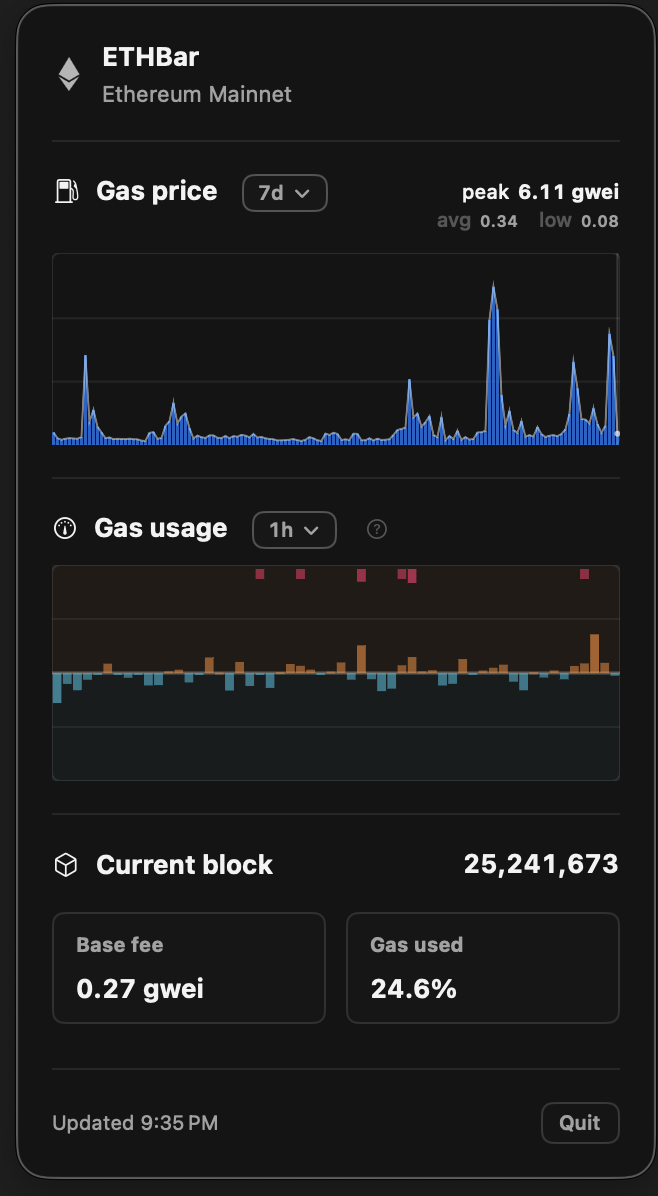
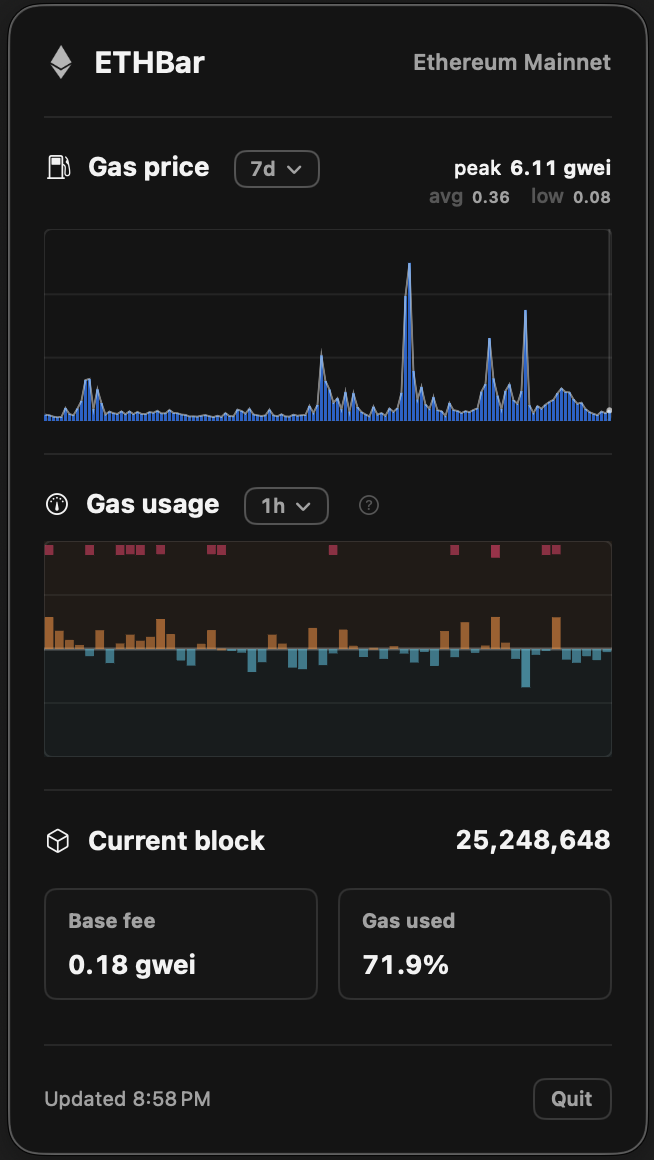
style: minor screenshot update

diff --git a/README.md b/README.md
@@ -4,7 +4,7 @@ ETHBar is a tiny macOS menu bar app for keeping Ethereum Mainnet in view.
 
 It shows the live base fee in the menu bar, then opens into a compact popover with fee history, gas usage, the latest block, and last update time.
 
-![ETHBar screenshot](public/ETHBar.png)
+<img src="public/ETHBar.png" alt="ETHBar screenshot" width="300" />
 
 ## What it does
 